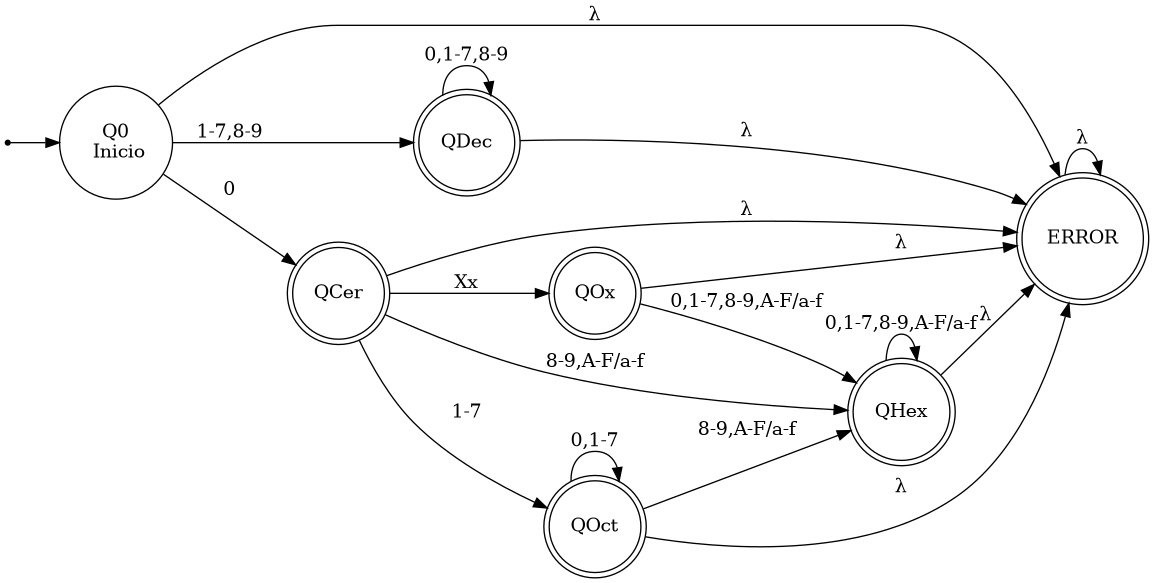
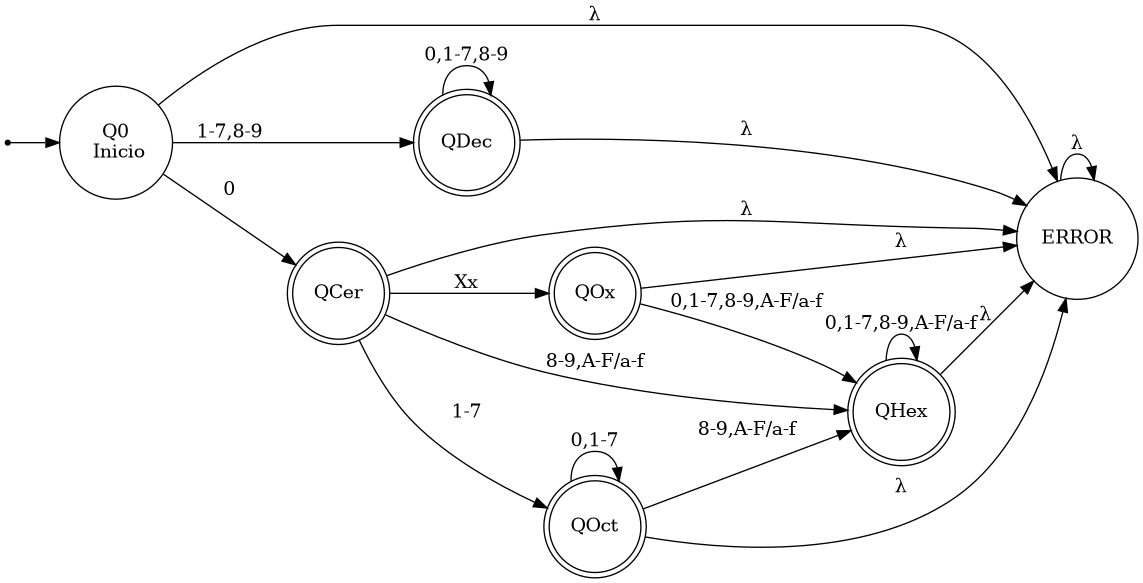
Last Upds

diff --git a/AFD/README.md b/AFD/README.md
@@ -13,19 +13,19 @@
 | Q0            | 1-7,8-9        | QDec            |
 | Q0            | 0              | QCer            |
 | Q0            | otro           | ERROR           |
-| QDec          | 0,1-7,8-9      | QDec            |
-| QDec          | otro           | ERROR           |
-| QCer          | 1-7            | QOct            |
-| QCer          | x/X            | QOx             |
-| QCer          | 8-9,A-F/a-f    | QHex            |
-| QCer          | otro           | ERROR           |
+| QDec+          | 0,1-7,8-9      | QDec            |
+| QDec+          | otro           | ERROR           |
+| QCer+          | 1-7            | QOct            |
+| QCer+          | x/X            | QOx             |
+| QCer+          | 8-9,A-F/a-f    | QHex            |
+| QCer+          | otro           | ERROR           |
 | QOx           | 0-9,A-F/a-f    | QHex            |
 | QOx           | otro           | ERROR           |
-| QOct          | 8-9,A-F/a-f    | QHex            |
-| QOct          | 0,1-7          | QOct            |
-| QOct          | otro           | ERROR           |
-| QHex          | 0-9,A-F/a-f    | QHex            |
-| QHex          | otro           | ERROR           |
+| QOct+          | 8-9,A-F/a-f    | QHex            |
+| QOct+          | 0,1-7          | QOct            |
+| QOct+          | otro           | ERROR           |
+| QHex+          | 0-9,A-F/a-f    | QHex            |
+| QHex+          | otro           | ERROR           |
 | ERROR         | otro           | ERROR           |
 
 ![AFD](automata.png)
